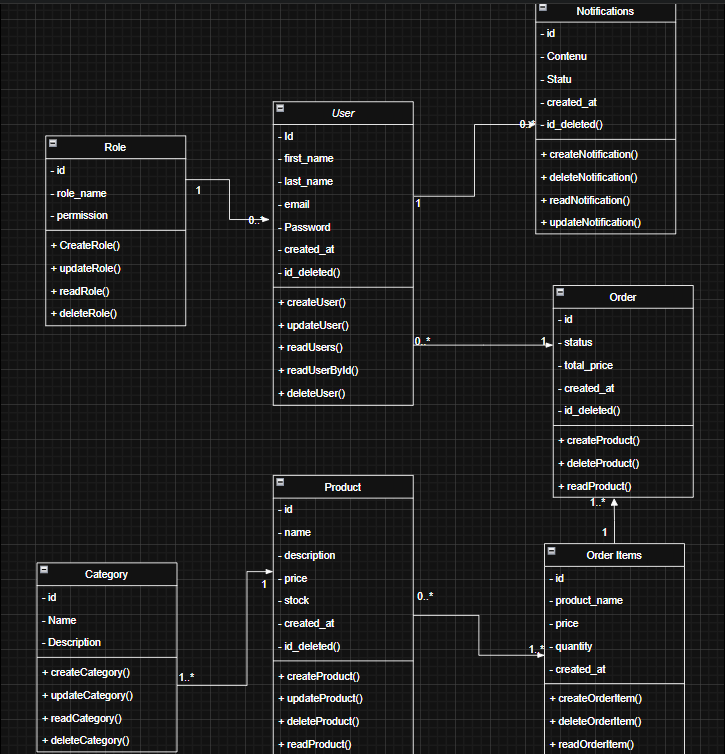
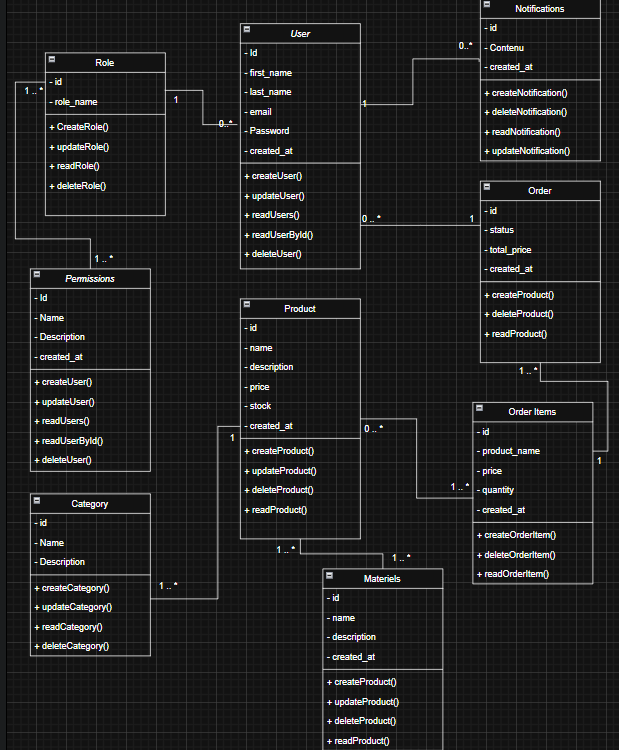
i have just edited my UML diagrammes

diff --git a/resources/views/Admin/Roles/Index.blade.php b/resources/views/Admin/Roles/Index.blade.php
@@ -14,14 +14,13 @@
       <div class="p-4 p-lg-5 container-fluid">
         <div class="card-dark rounded mt-4">
           <div class="d-flex align-items-center justify-content-between px-4 py-3 border-bottom" style="border-color:var(--bb-border-dark)!important;">
-            <h4 class="fw-bold mb-0">Liste des Rôles Système</h4>
+            <h4 class="fw-bold mb-0">Liste des Rôles</h4>
           </div>
           <div class="table-responsive">
             <table class="table table-roles align-middle mb-0" style="background-color: #5A1A19">
               <thead>
                 <tr>
                   <th class="px-4 py-3">Nom du Rôle</th>
-                  <th class="px-4 py-3">Permission</th>
                   <th class="px-4 py-3">Date de Création</th>
                   <th class="px-4 py-3 text-end">Actions</th>
                 </tr>
@@ -38,7 +37,6 @@
                           <span class="fw-semibold">{{ $role->role_name }}</span>
                         </div>
                       </td>
-                      <td class="px-4 py-3 small">{{ $role->permission }}</td>
                       <td class="px-4 py-3 small">{{ $role->created_at }}</td>
                       <td class="px-4 py-3 text-end">
                         <div class="d-inline-flex align-items-center gap-1">

diff --git a/database/seeders/Permissions.php b/database/seeders/Permissions.php
@@ -11,7 +11,7 @@ class Permissions extends Seeder
     {
         $permissions = [
             ['name' => 'dashboard.view', 'description' => 'View dashboard'],
-            ['name' => 'reports.view', 'description' => 'View reports'],
+            ['name' => 'logs.view', 'description' => 'View logs'],
             ['name' => 'category.view', 'description' => 'View categories'],
             ['name' => 'category.create', 'description' => 'Create categories'],
             ['name' => 'category.update', 'description' => 'Update categories'],